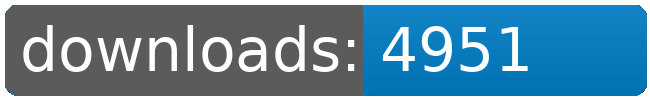
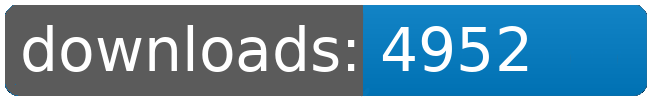
dl log written

Changed region(s): [[0.7692, 0.24, 0.8308, 0.69]]

diff --git a/README.md b/README.md
@@ -4,102 +4,102 @@
 <table>
 	<tr>
 		<td></td>
-		<td>2026-03-10</td>
 		<td>2026-03-11</td>
 		<td>2026-03-12</td>
 		<td>2026-03-13</td>
 		<td>2026-03-14</td>
 		<td>2026-03-15</td>
 		<td>2026-03-16</td>
+		<td>2026-03-17</td>
 		<td>today +</td>
 	</tr>
 	<tr>
 		<td>Bunsen.Burner</td>
-		<td>4300</td>
 		<td>4329</td>
 		<td>4352</td>
 		<td>4373</td>
 		<td>4388</td>
 		<td>4404</td>
 		<td>4416</td>
-		<td>+ 12</td>
+		<td>4417</td>
+		<td>+ 1</td>
 	</tr>
 	<tr>
 		<td>Factory.Outlets</td>
-		<td>4272</td>
 		<td>4304</td>
 		<td>4325</td>
 		<td>4346</td>
 		<td>4362</td>
 		<td>4377</td>
 		<td>4391</td>
-		<td>+ 14</td>
+		<td>4391</td>
+		<td></td>
 	</tr>
 	<tr>
 		<td>Fundamental.Outfit.Expansion</td>
-		<td>5342</td>
 		<td>5374</td>
 		<td>5399</td>
 		<td>5421</td>
 		<td>5435</td>
 		<td>5452</td>
 		<td>5466</td>
-		<td>+ 14</td>
+		<td>5466</td>
+		<td></td>
 	</tr>
 	<tr>
 		<td>Jaws</td>
-		<td>4188</td>
 		<td>4216</td>
 		<td>4238</td>
 		<td>4258</td>
 		<td>4273</td>
 		<td>4290</td>
 		<td>4302</td>
-		<td>+ 12</td>
+		<td>4302</td>
+		<td></td>
 	</tr>
 	<tr>
 		<td>Korunak.Defense.Drones</td>
-		<td>4358</td>
 		<td>4389</td>
 		<td>4411</td>
 		<td>4432</td>
 		<td>4447</td>
 		<td>4464</td>
 		<td>4478</td>
-		<td>+ 14</td>
+		<td>4478</td>
+		<td></td>
 	</tr>
 	<tr>
 		<td>Louise.Conglomerate.Shipyards</td>
-		<td>4829</td>
 		<td>4864</td>
 		<td>4889</td>
 		<td>4908</td>
 		<td>4923</td>
 		<td>4938</td>
 		<td>4951</td>
-		<td>+ 13</td>
+		<td>4952</td>
+		<td>+ 1</td>
 	</tr>
 	<tr>
 		<td>Solar.Sails</td>
-		<td>4291</td>
 		<td>4322</td>
 		<td>4345</td>
 		<td>4366</td>
 		<td>4381</td>
 		<td>4396</td>
 		<td>4409</td>
-		<td>+ 13</td>
+		<td>4409</td>
+		<td></td>
 	</tr>
 	<tr>
 		<td>Zone.of.Control</td>
-		<td>4117</td>
 		<td>4147</td>
 		<td>4171</td>
 		<td>4190</td>
 		<td>4205</td>
 		<td>4219</td>
 		<td>4232</td>
-		<td>+ 13</td>
+		<td>4232</td>
+		<td></td>
 	</tr>
 	<tr>
 		<td></td>
@@ -109,8 +109,8 @@
 		<td></td>
 		<td></td>
 		<td></td>
-		<td>36645</td>
-		<td>105</td>
+		<td>36647</td>
+		<td>2</td>
 	</tr>
 </table>
 </sub></sup>
@@ -118,102 +118,102 @@
 <table>
 	<tr>
 		<td></td>
-		<td>2026-03-10</td>
 		<td>2026-03-11</td>
 		<td>2026-03-12</td>
 		<td>2026-03-13</td>
 		<td>2026-03-14</td>
 		<td>2026-03-15</td>
 		<td>2026-03-16</td>
+		<td>2026-03-17</td>
 		<td>today +</td>
 	</tr>
 	<tr>
 		<td>Fundamental.Outfit.Expansion</td>
-		<td>5342</td>
 		<td>5374</td>
 		<td>5399</td>
 		<td>5421</td>
 		<td>5435</td>
 		<td>5452</td>
 		<td>5466</td>
-		<td>+ 14</td>
+		<td>5466</td>
+		<td></td>
 	</tr>
 	<tr>
 		<td>Louise.Conglomerate.Shipyards</td>
-		<td>4829</td>
 		<td>4864</td>
 		<td>4889</td>
 		<td>4908</td>
 		<td>4923</td>
 		<td>4938</td>
 		<td>4951</td>
-		<td>+ 13</td>
+		<td>4952</td>
+		<td>+ 1</td>
 	</tr>
 	<tr>
 		<td>Korunak.Defense.Drones</td>
-		<td>4358</td>
 		<td>4389</td>
 		<td>4411</td>
 		<td>4432</td>
 		<td>4447</td>
 		<td>4464</td>
 		<td>4478</td>
-		<td>+ 14</td>
+		<td>4478</td>
+		<td></td>
 	</tr>
 	<tr>
 		<td>Bunsen.Burner</td>
-		<td>4300</td>
 		<td>4329</td>
 		<td>4352</td>
 		<td>4373</td>
 		<td>4388</td>
 		<td>4404</td>
 		<td>4416</td>
-		<td>+ 12</td>
+		<td>4417</td>
+		<td>+ 1</td>
 	</tr>
 	<tr>
 		<td>Solar.Sails</td>
-		<td>4291</td>
 		<td>4322</td>
 		<td>4345</td>
 		<td>4366</td>
 		<td>4381</td>
 		<td>4396</td>
 		<td>4409</td>
-		<td>+ 13</td>
+		<td>4409</td>
+		<td></td>
 	</tr>
 	<tr>
 		<td>Factory.Outlets</td>
-		<td>4272</td>
 		<td>4304</td>
 		<td>4325</td>
 		<td>4346</td>
 		<td>4362</td>
 		<td>4377</td>
 		<td>4391</td>
-		<td>+ 14</td>
+		<td>4391</td>
+		<td></td>
 	</tr>
 	<tr>
 		<td>Jaws</td>
-		<td>4188</td>
 		<td>4216</td>
 		<td>4238</td>
 		<td>4258</td>
 		<td>4273</td>
 		<td>4290</td>
 		<td>4302</td>
-		<td>+ 12</td>
+		<td>4302</td>
+		<td></td>
 	</tr>
 	<tr>
 		<td>Zone.of.Control</td>
-		<td>4117</td>
 		<td>4147</td>
 		<td>4171</td>
 		<td>4190</td>
 		<td>4205</td>
 		<td>4219</td>
 		<td>4232</td>
-		<td>+ 13</td>
+		<td>4232</td>
+		<td></td>
 	</tr>
 	<tr>
 		<td></td>
@@ -223,8 +223,8 @@
 		<td></td>
 		<td></td>
 		<td></td>
-		<td>36645</td>
-		<td>105</td>
+		<td>36647</td>
+		<td>2</td>
 	</tr>
 </table>
 </sub></sup>
@@ -291,9 +291,9 @@
 		<td></td>
 	</tr>
 	<tr>
-		<td>154</td>
-		<td>24.69</td>
-		<td>7.34</td>
+		<td>155</td>
+		<td>24.53</td>
+		<td>7.29</td>
 		<td></td>
 		<td></td>
 	</tr>
